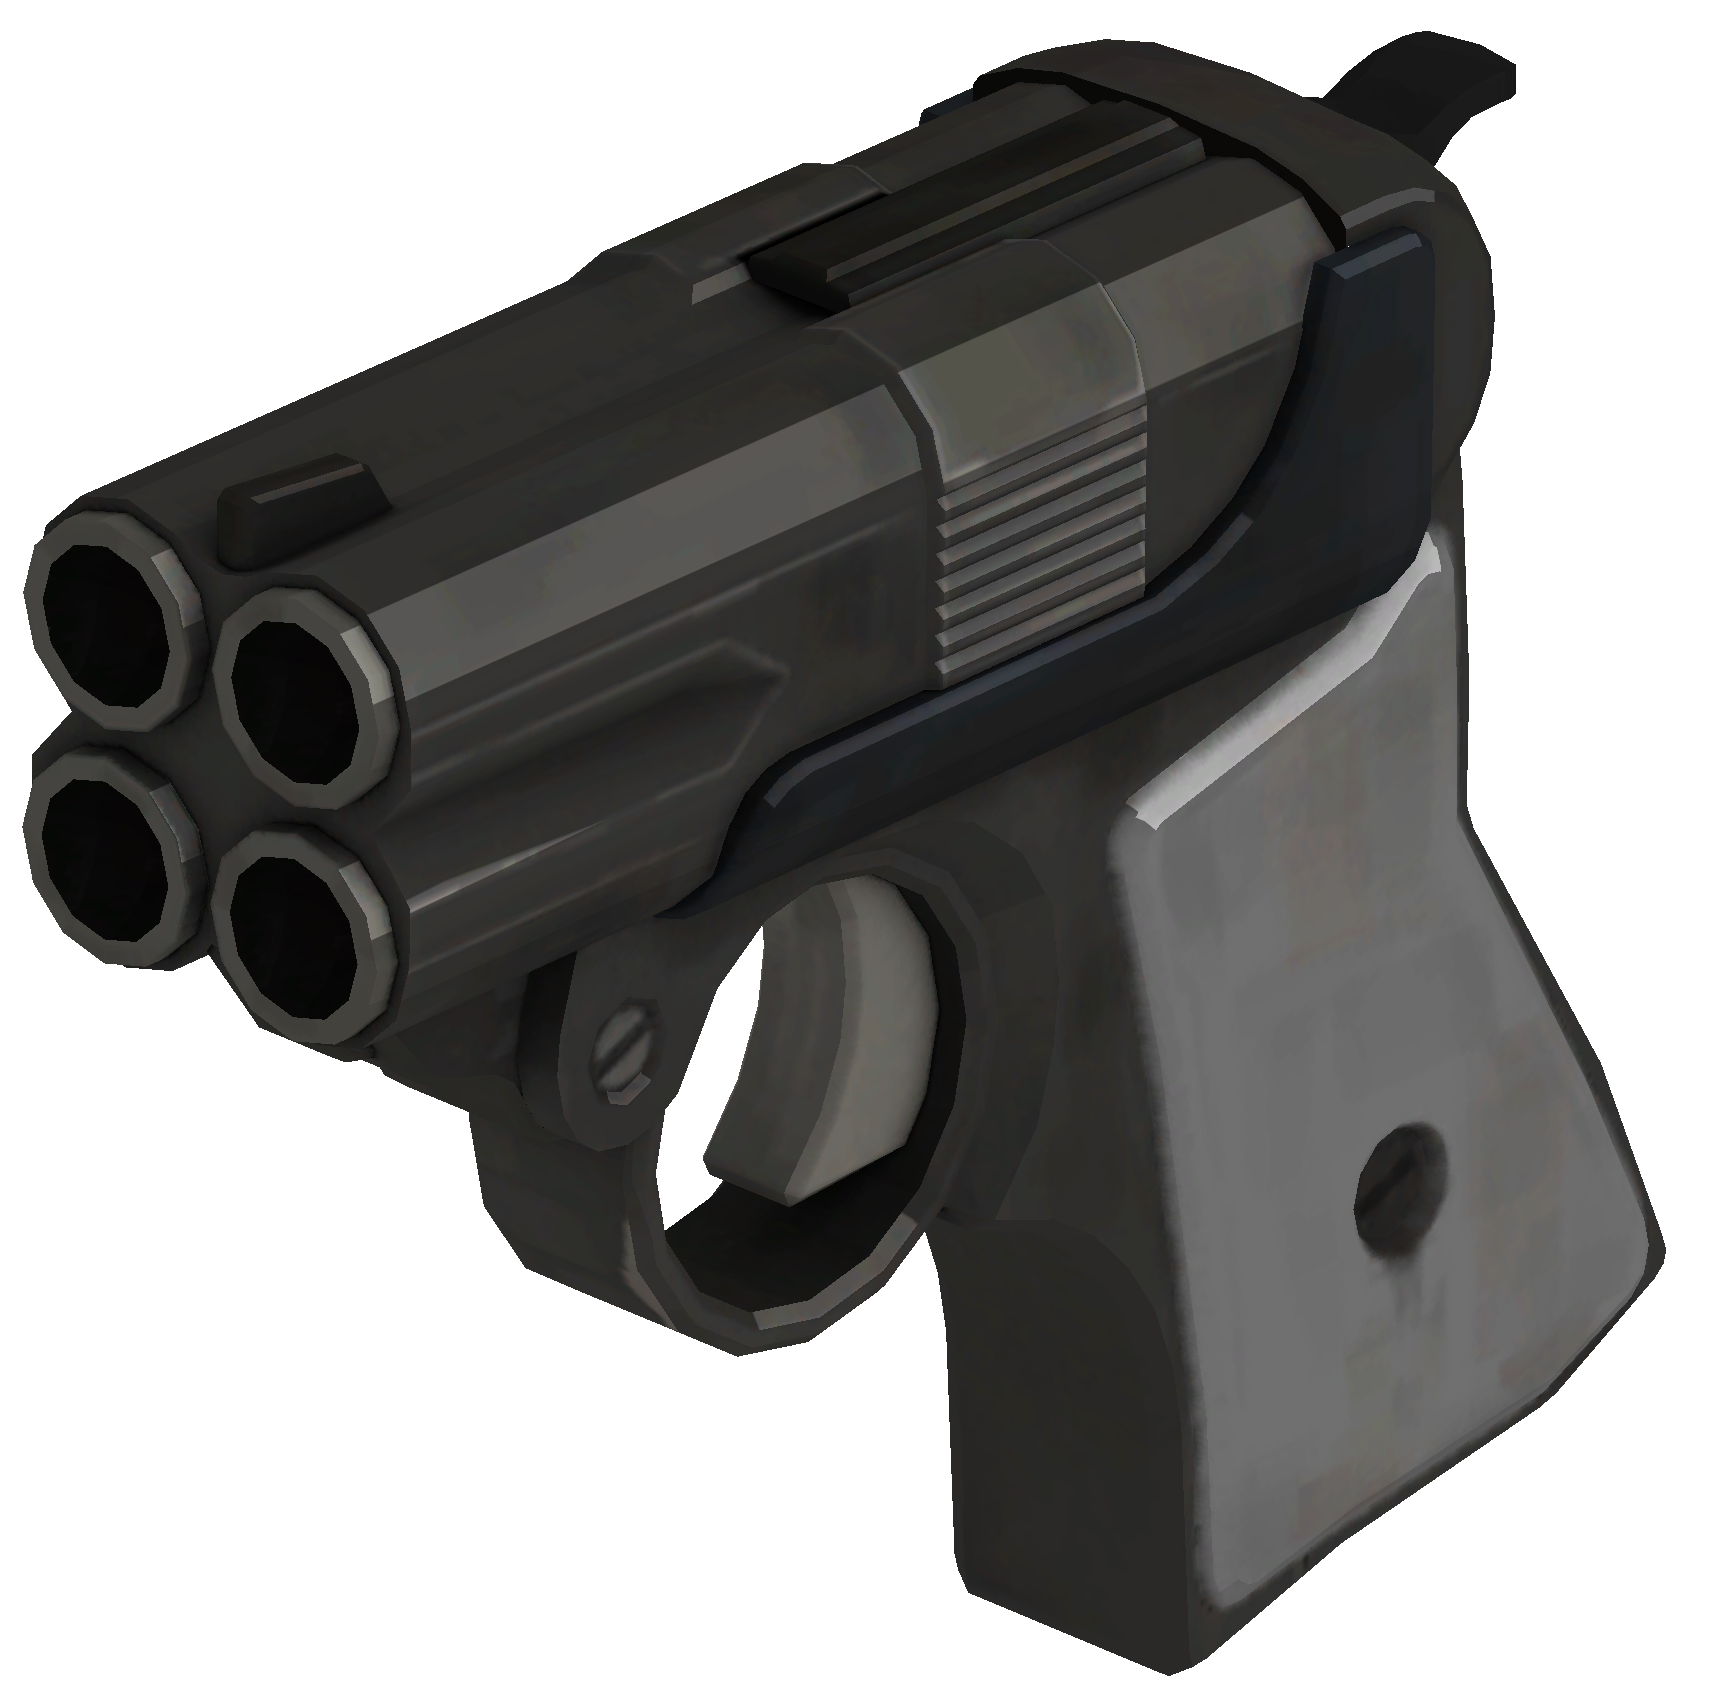
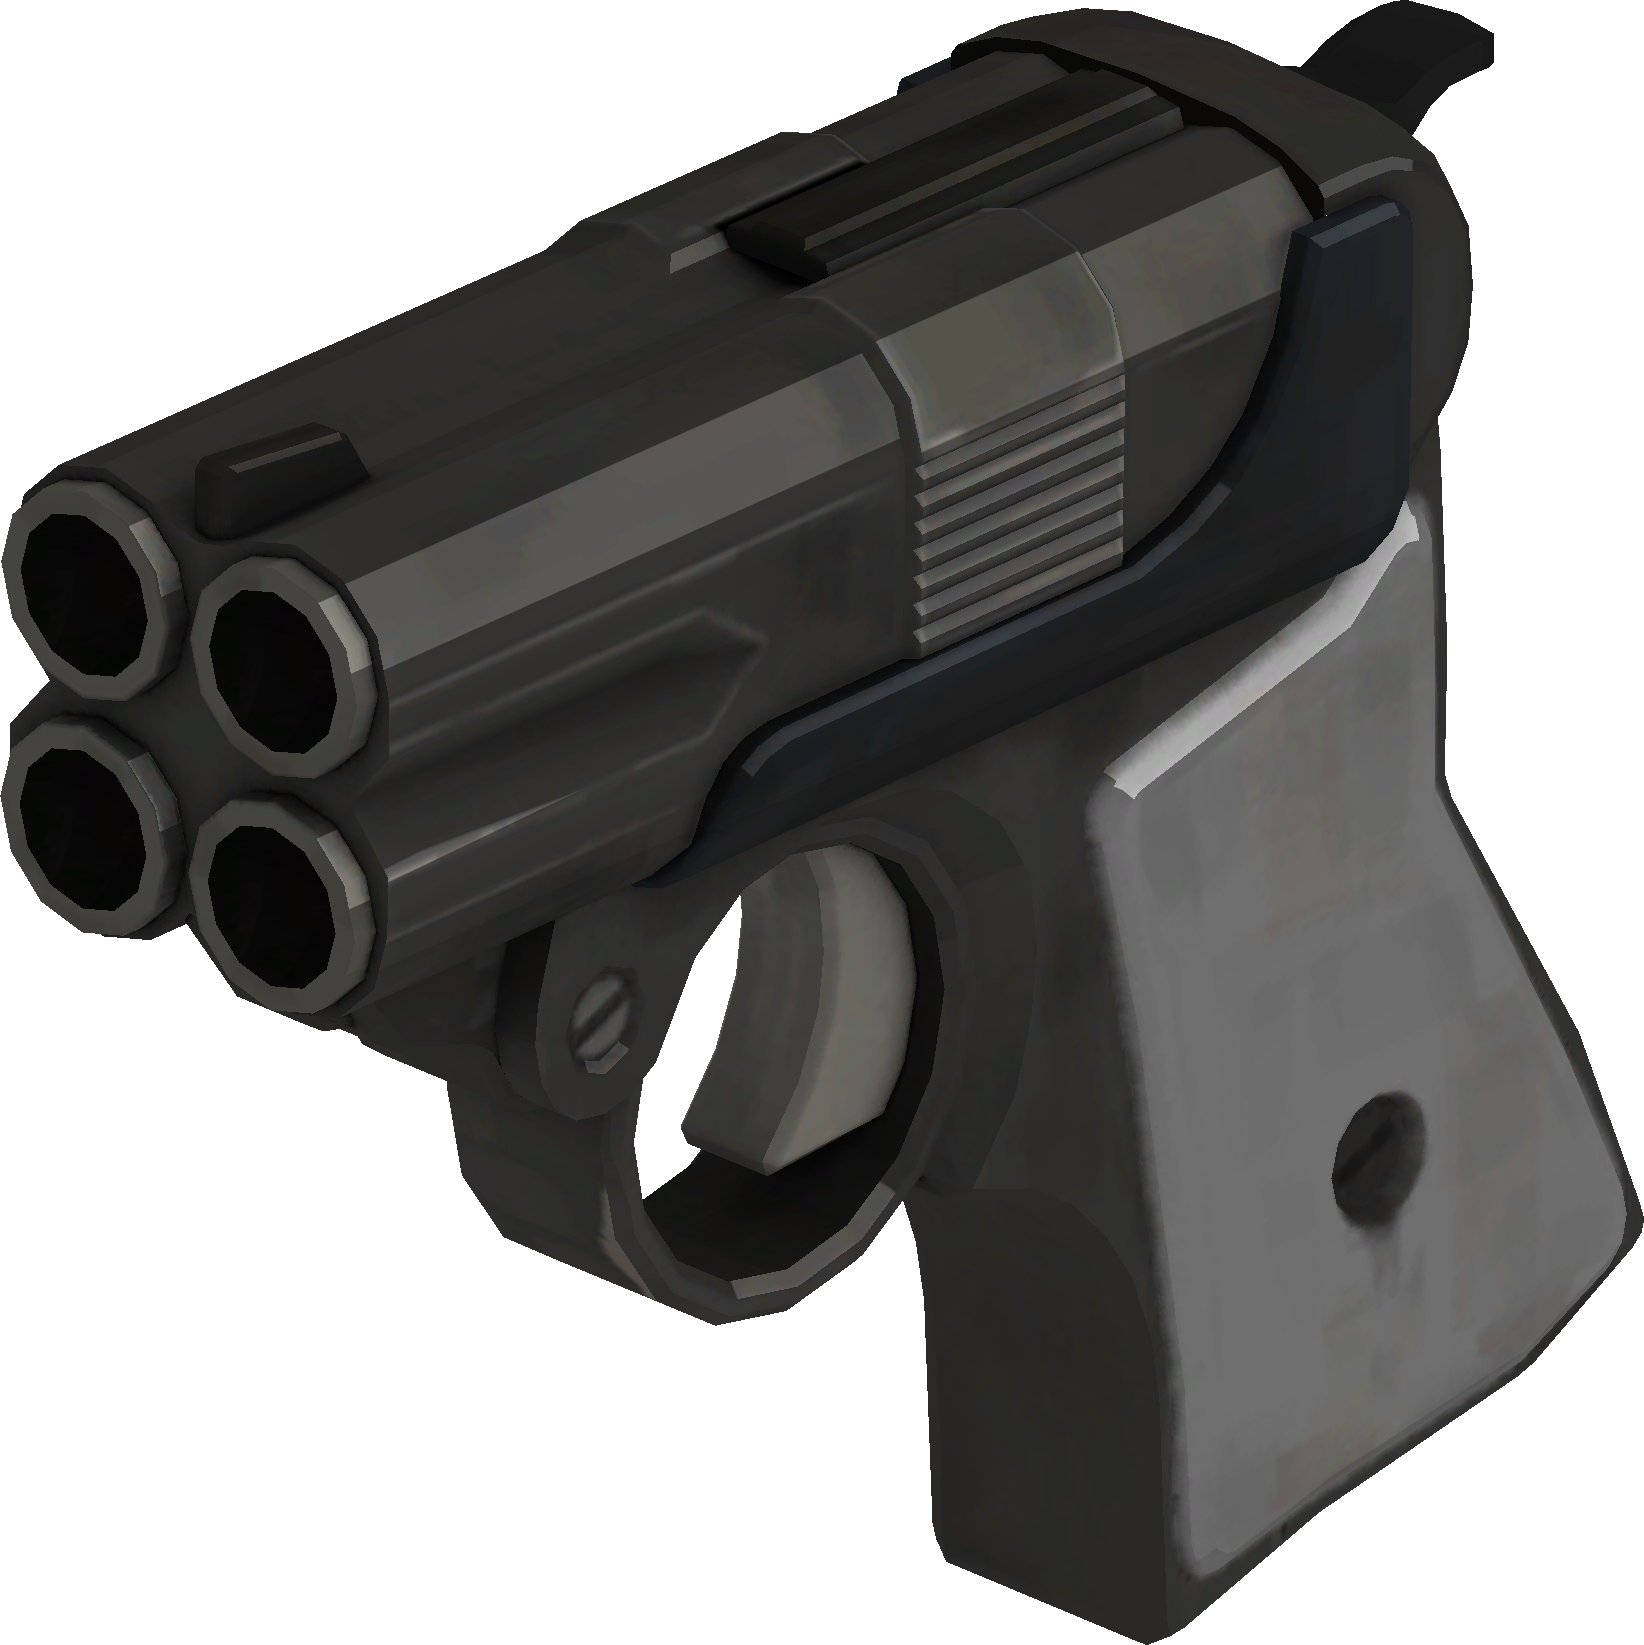
Cropped existing Scout weapon images and added some missing melee weapons

diff --git a/changes/scout.html b/changes/scout.html
@@ -773,7 +773,7 @@
       <div class="rounded-rectangle">
         <div class="column image">
           <div class="image-bg">
-            <img src="../weapons/scout/Bat.png" alt="Sandman"/>
+            <img src="../weapons/scout/Sandman.png" alt="Sandman"/>
           </div>
         </div>
         <div class="column text">
